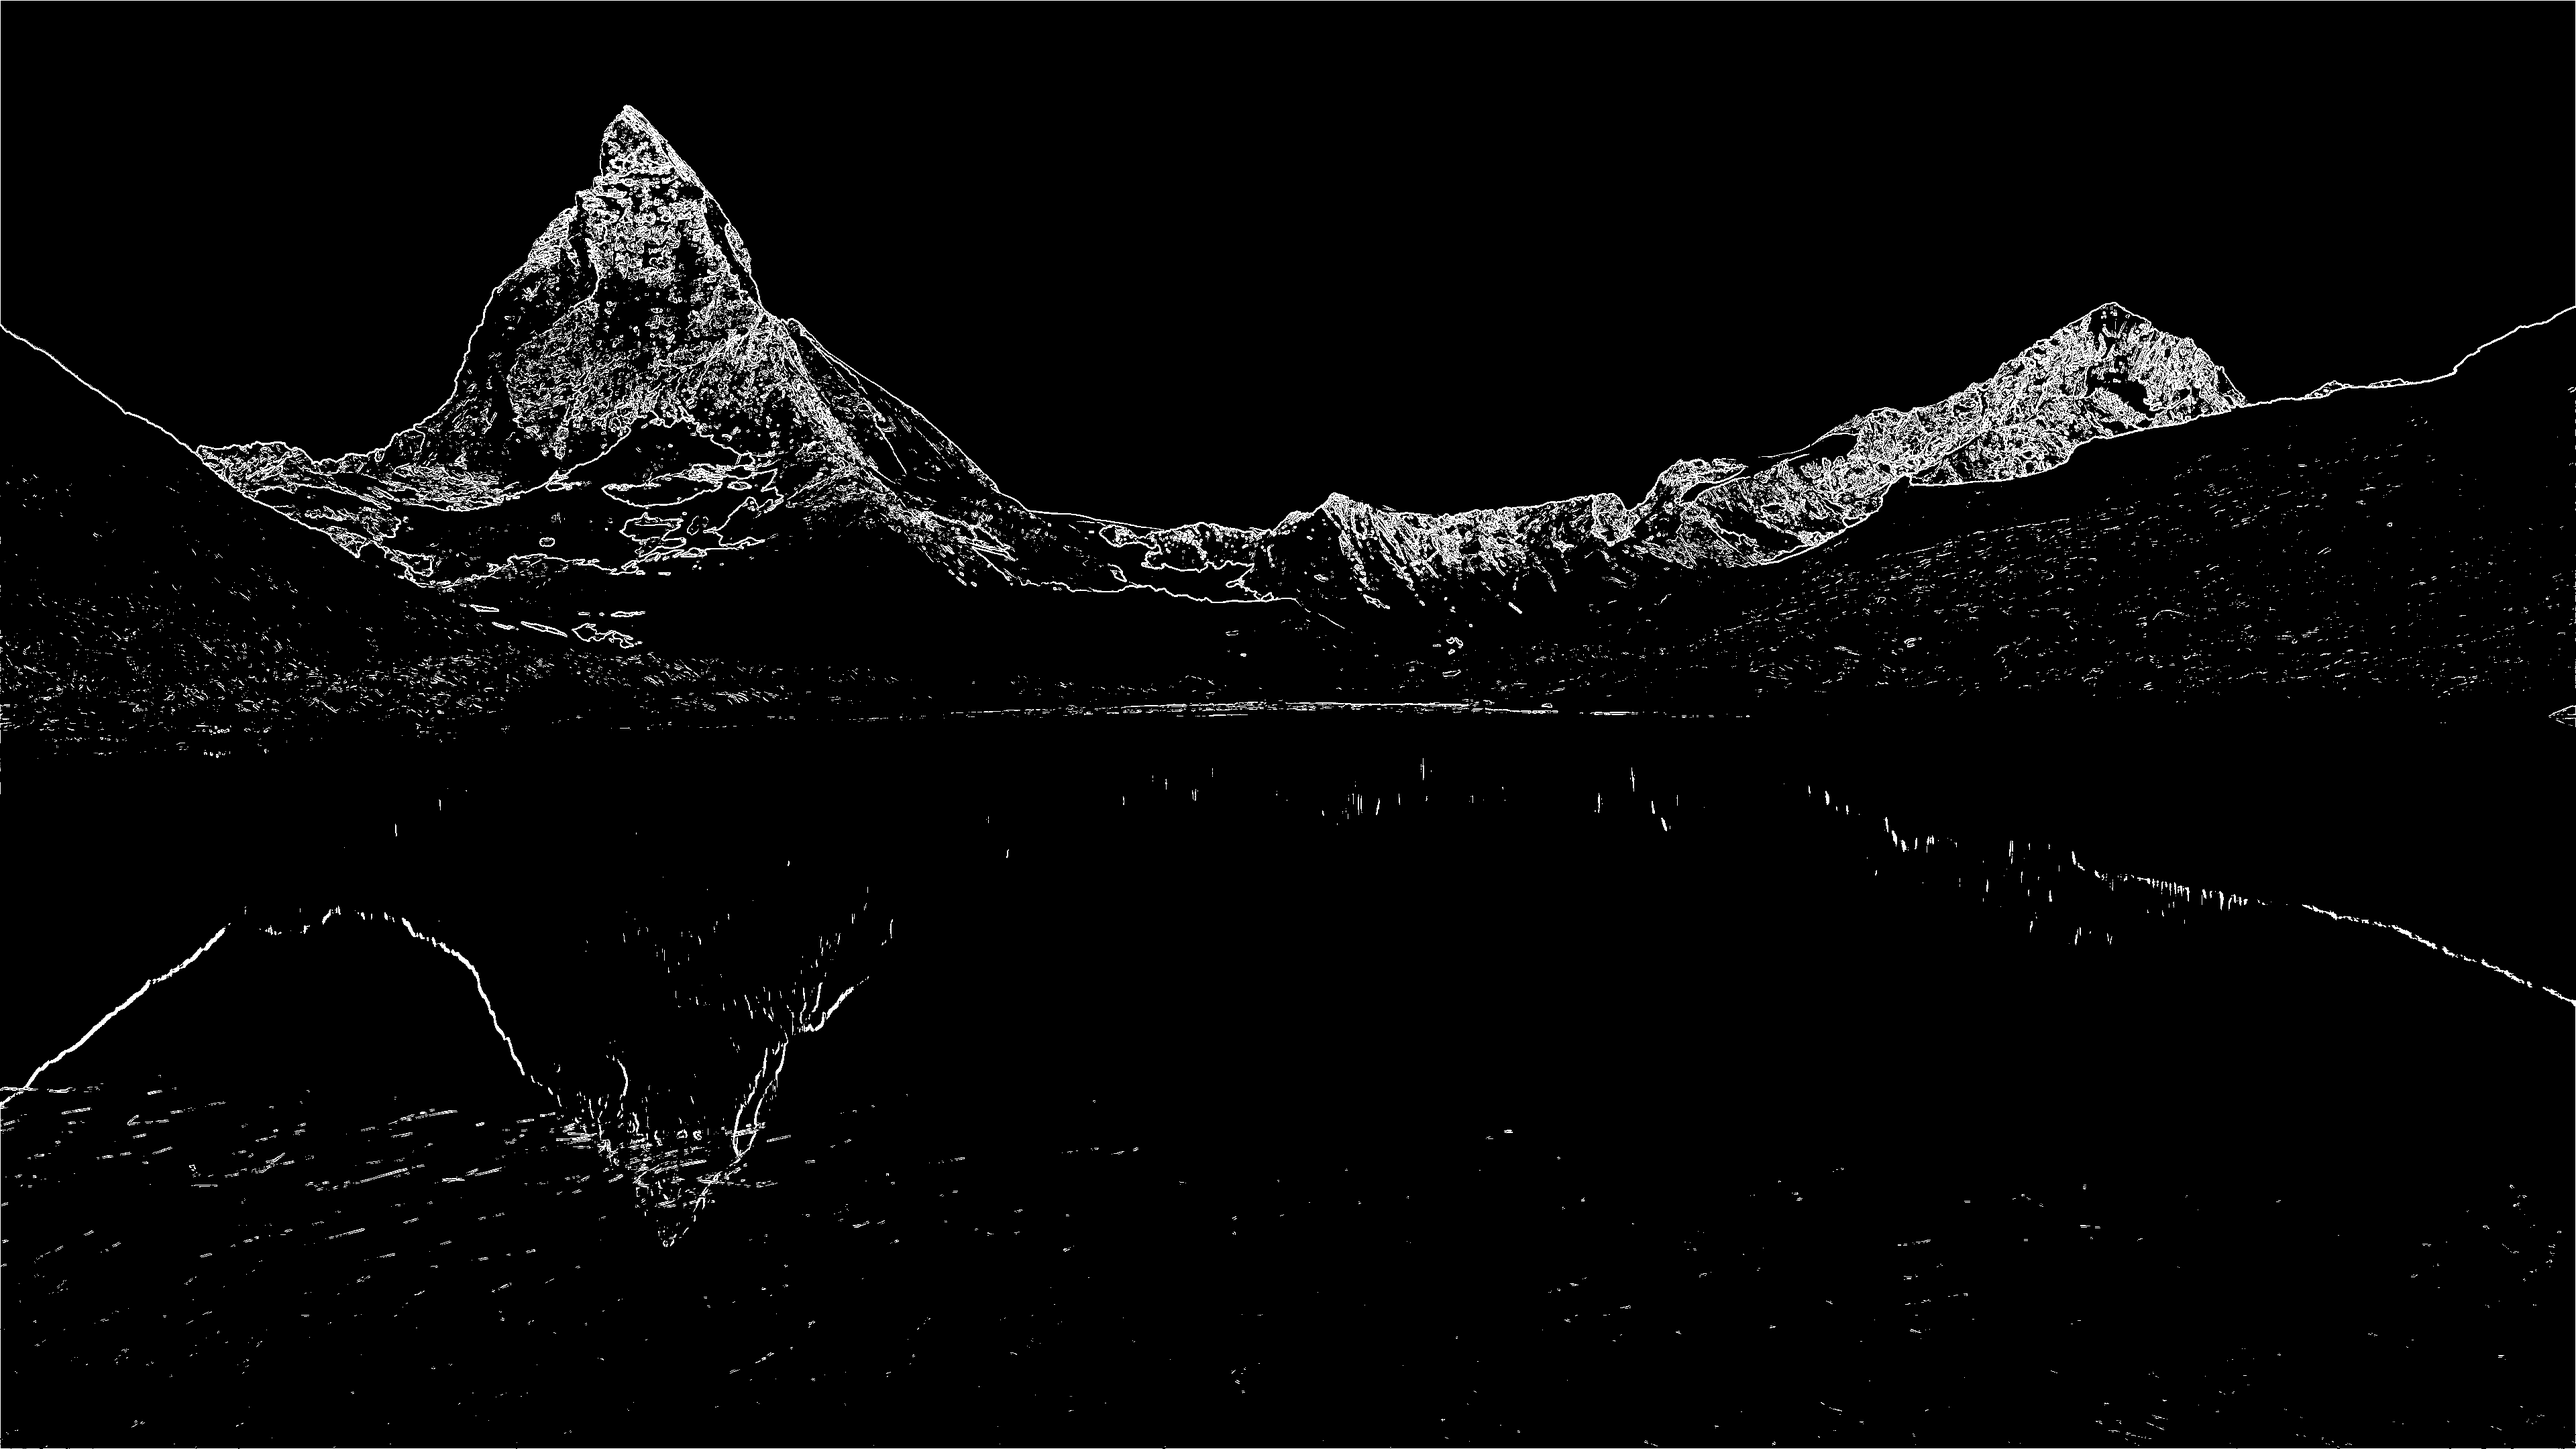
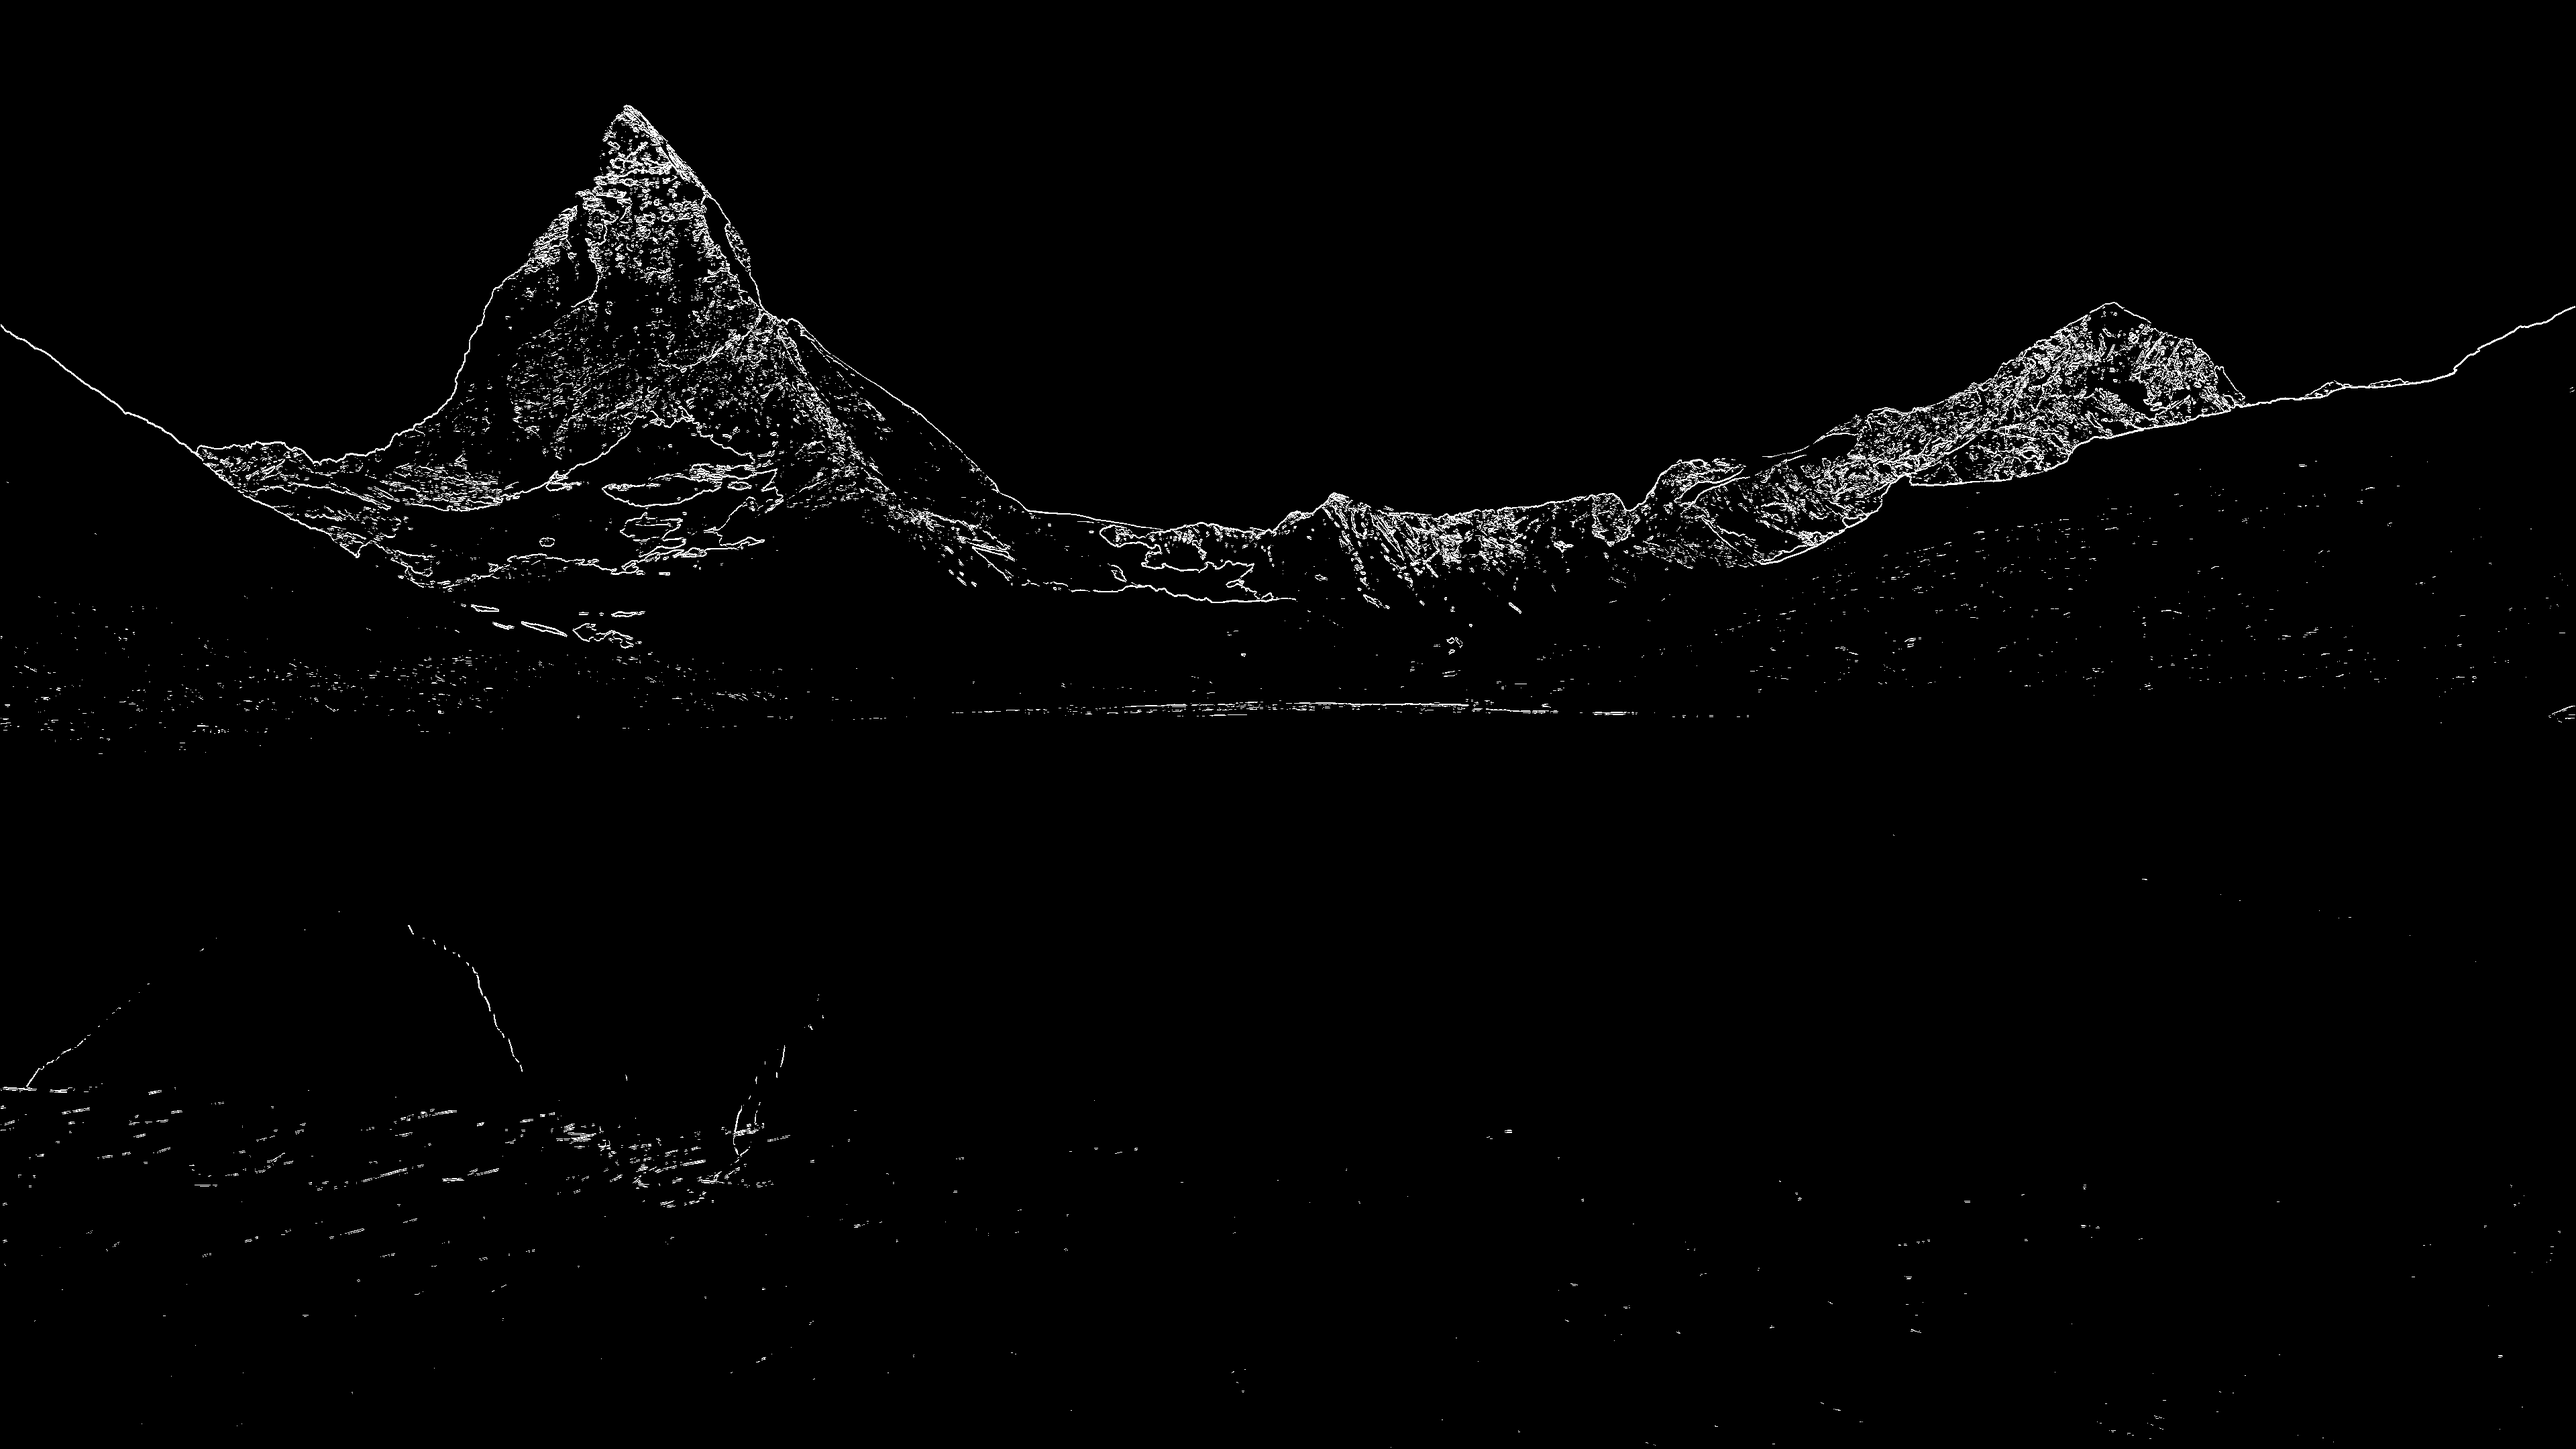
added way to test normal sobel

diff --git a/main.cpp b/main.cpp
@@ -9,6 +9,84 @@
 
 using namespace cv;
 
+// Kernel for Sobel operator
+const int sobelX[3][3] = {{-1, 0, 1}, {2, 0, -2}, {1, 0, -1}};
+const int sobelY[3][3] = {{1, 2, 1}, {0, 0, 0}, {-1, -2, -1}};
+
+// Function to perform Sobel edge detection
+void sobelEdgeDetection(Mat &image, Mat &output)
+{
+    int numRows = image.rows;
+    int numCols = image.cols;
+    int magnitude, threshold = 130;
+
+    // Apply Sobel operator to each pixel in the image
+    for (int i = 1; i < numRows - 1; ++i)
+    {
+        for (int j = 1; j < numCols - 1; ++j)
+        {
+            int gx = 0, gy = 0;
+
+            // Convolution with Sobel kernels
+            for (int k = -1; k <= 1; ++k)
+            {
+                for (int l = -1; l <= 1; ++l)
+                {
+                    // gx += image[i + k][j + l] * sobelX[k + 1][l + 1];
+                    // gy += image[i + k][j + l] * sobelY[k + 1][l + 1];
+                    gx += image.at<uchar>(i + k, j + l) * sobelX[k + 1][l + 1];
+                    gy += image.at<uchar>(i + k, j + l) * sobelY[k + 1][l + 1];
+                }
+            }
+
+            // Compute gradient magnitude
+            magnitude = std::sqrt(gx * gx + gy * gy);
+
+            // threshold
+            if (magnitude > threshold)
+            {
+                output.at<uchar>(i, j) = 255;
+            }
+            else
+            {
+                output.at<uchar>(i, j) = 0;
+            }
+        }
+    }
+}
+
+void testNormalSobel()
+{
+
+    std::vector<std::string> photos{"sample1.png", "sample2.png", "sample3.png"};
+
+    for (std::string filename : photos)
+    {
+        std::string path = "/src/output_imgs/" + filename;
+        Mat image = localUtil::loadImageFromFile(filename, cv::ImreadModes::IMREAD_GRAYSCALE);
+        Mat output(image.size(), image.type());
+        double avgTime = 0;
+
+        for (int test = 0; test < 25; test++)
+        {
+            auto start = std::chrono::high_resolution_clock::now();
+            sobelEdgeDetection(image, output);
+            auto end = std::chrono::high_resolution_clock::now();
+
+            std::chrono::duration<double> duration = end - start;
+            double runtime = duration.count();
+            avgTime += runtime;
+        }
+
+        std::cout << "Result size: " << output.size() << std::endl;
+        std::cout << "Threshold value: " << 130 << std::endl;
+        std::cout << "Average Time: " << (avgTime / 25) << "s" << std::endl;
+        std::cout << "\n";
+
+        imwrite(path, output);
+    }
+}
+
 int main()
 {
 
@@ -59,6 +137,7 @@ int main()
 
     // localUtil::writeImageToTxt(result, "mountain");
     // imshow("Image", retval);
+
     waitKey(0); // wait for a keystroke in the window
 
     // TODO: implement counter class and thread class
